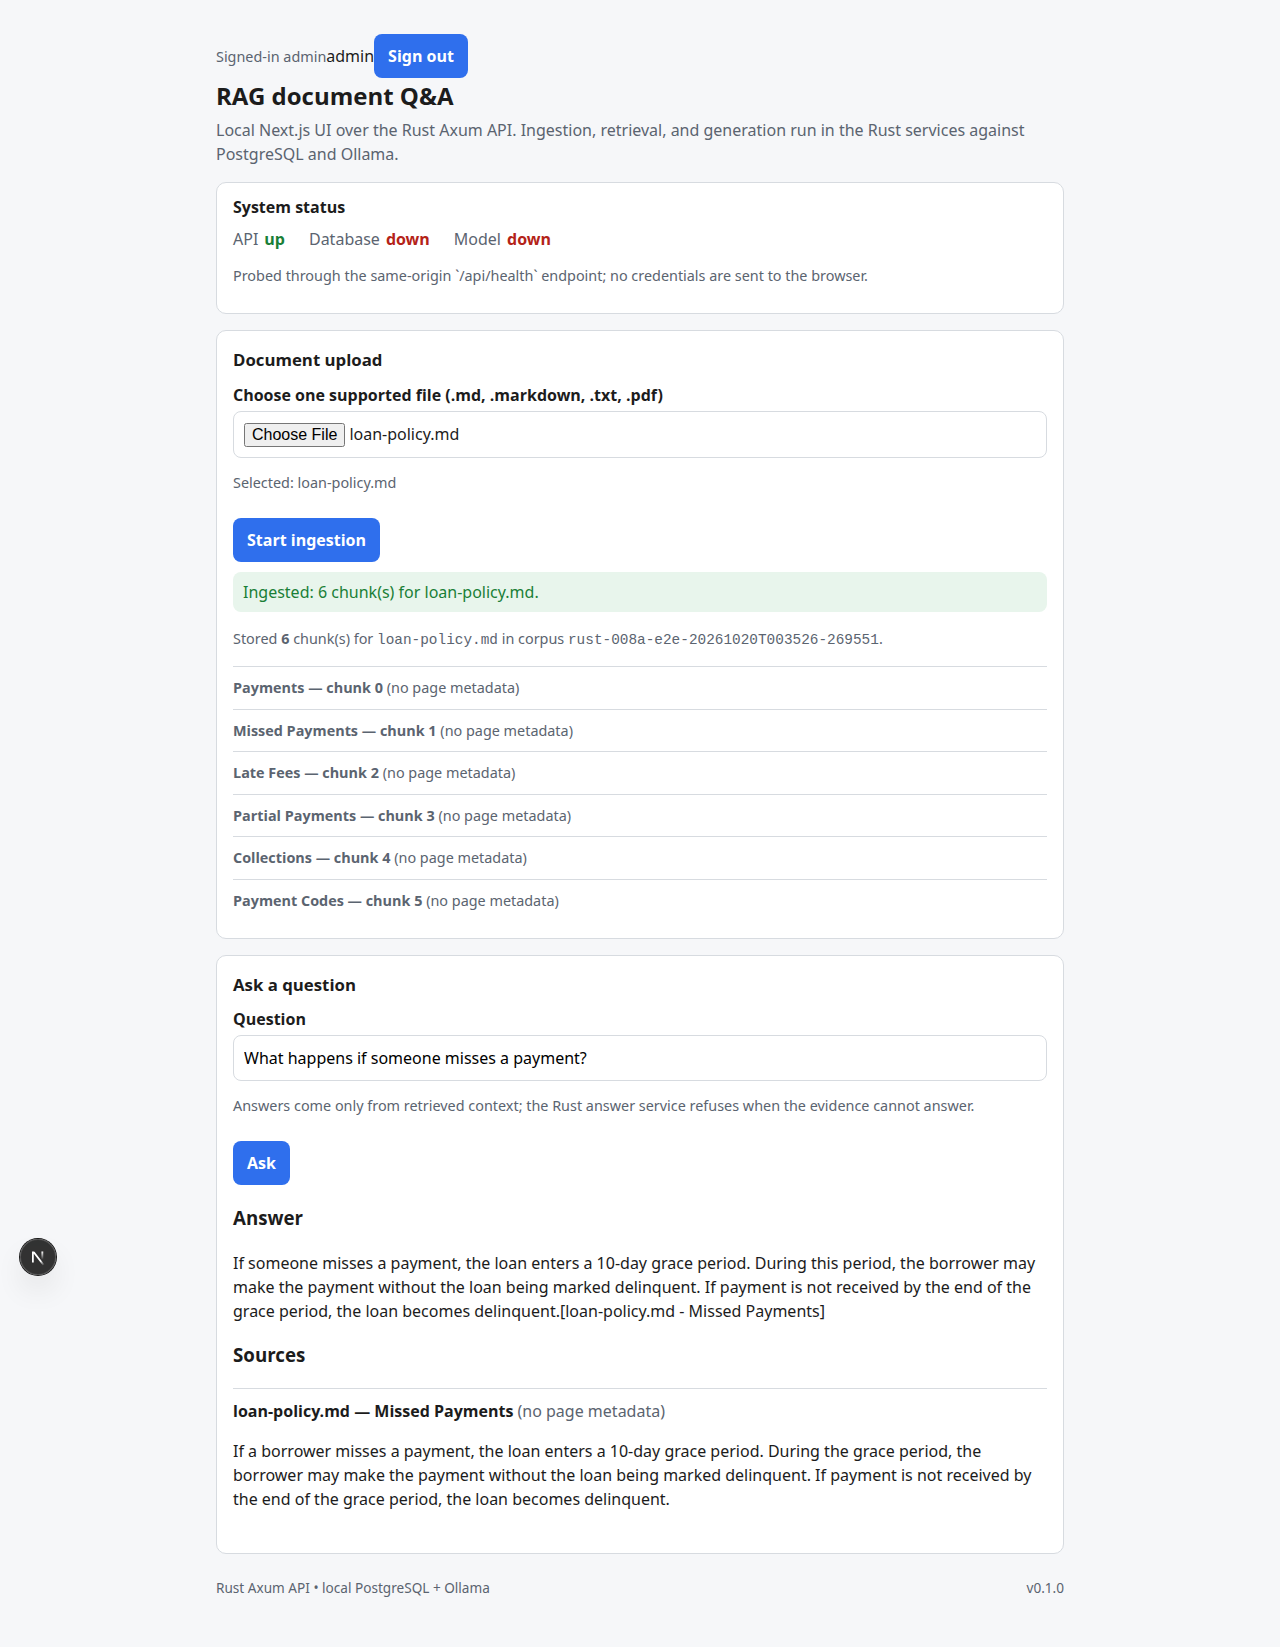
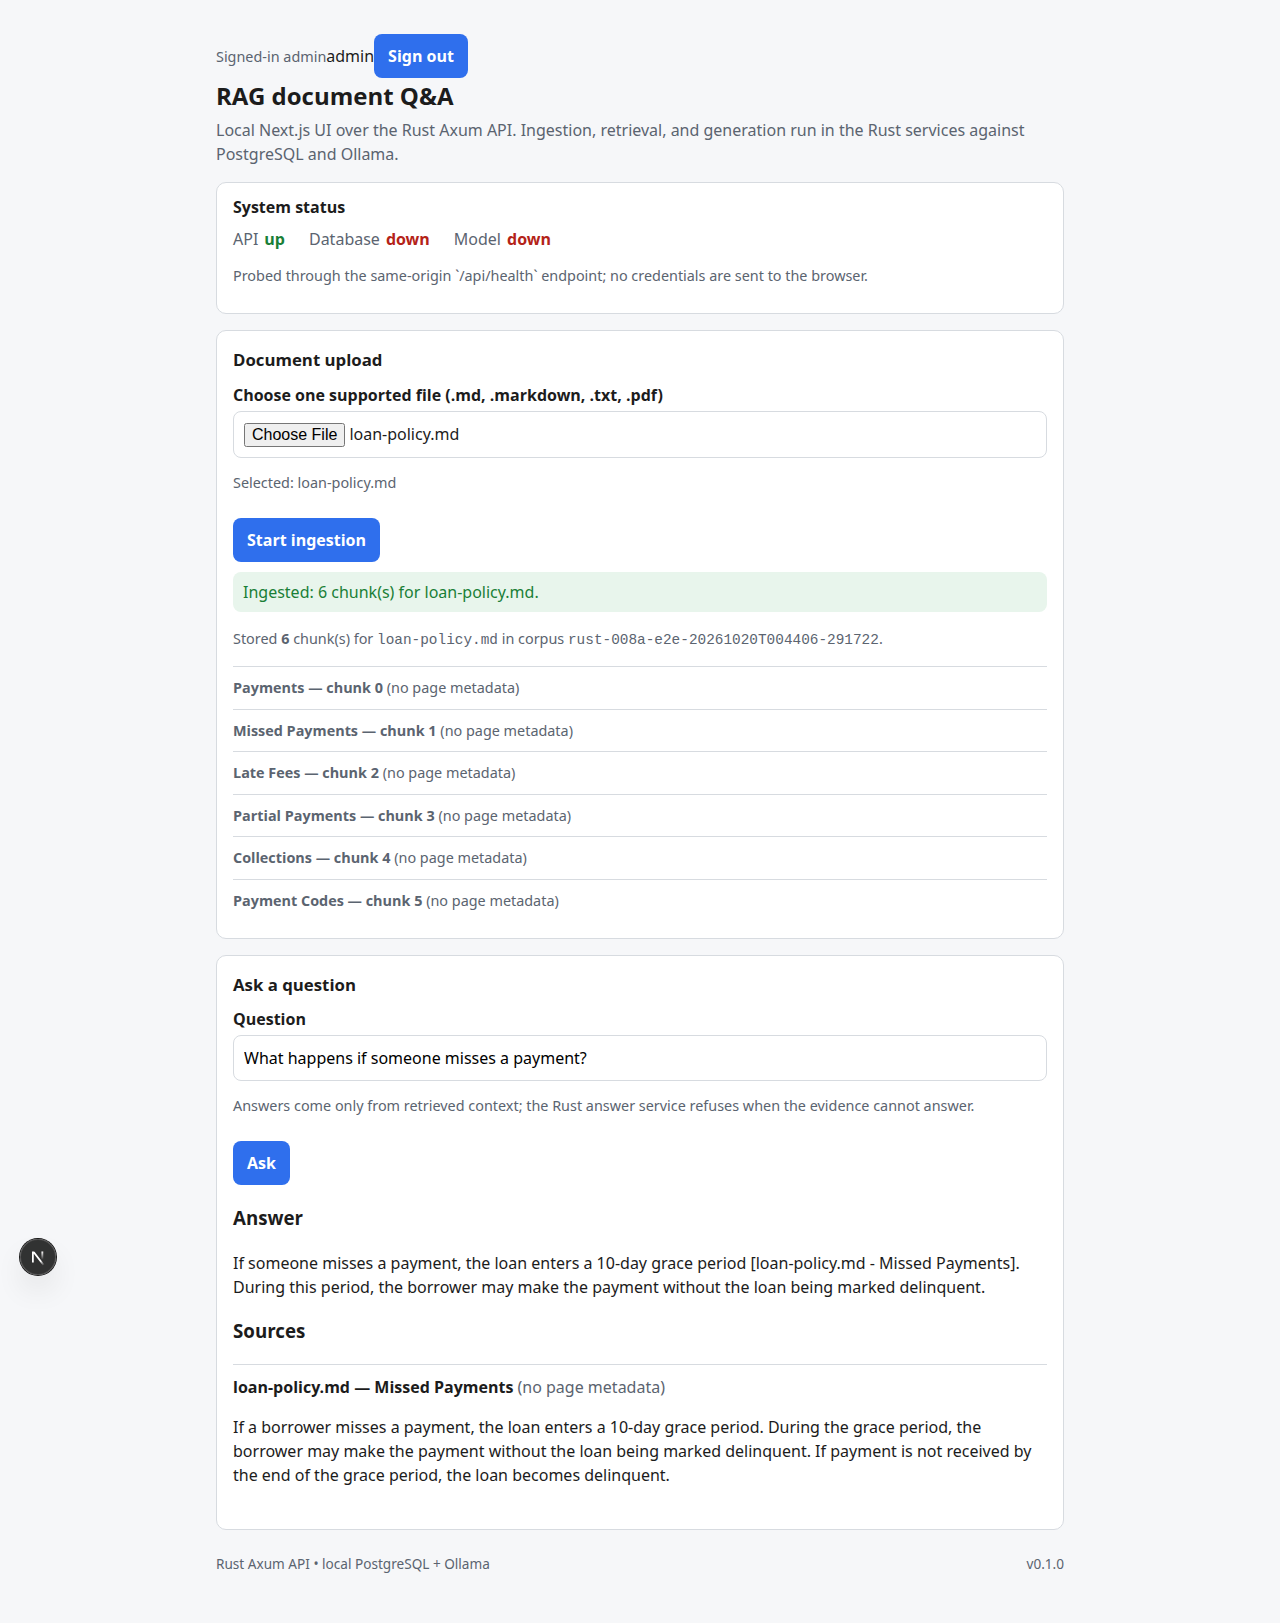
docs(rbac): record identity operations, migration safety, and Head of Family rules
Add the operator documentation required by Phase 5: identity setup, role
matrix, invite and role administration, session/proxy and CSRF behavior,
backup and rollback, recovery, and the Head of Family eligibility evidence and
unresolved succession rule. No real Head of Family appointment is made.

diff --git a/docs/operations/RBAC-OPERATIONS.md b/docs/operations/RBAC-OPERATIONS.md
@@ -1,0 +1,169 @@
+# Identity, RBAC, and Operations
+
+This page describes the application identity model, the role matrix, initial
+setup, account and role administration, session handling, audit rules, backup
+and migration safety, and recovery. It applies to the Rust Axum API and the
+Next.js browser UI.
+
+## Identity model
+
+- A **user** is an authenticated application account.
+- A **person** is a cataloged genealogy subject. A user and a person are not
+  automatically the same entity.
+- Authentication is standards-based OIDC verified by the Rust API. The API
+  verifies the token issuer, audience, signature against a cached JWKS,
+  expiration, and subject. A verification error is a rejection, never anonymous
+  access.
+- Accounts bind to an immutable provider subject, never to an email address.
+- There is no authentication-bypass switch. The CLI remains a local operator
+  interface and is not protected by browser RBAC.
+
+Required API environment:
+
+| Variable | Purpose |
+| --- | --- |
+| `AUTH_ISSUER` | Expected OIDC issuer. |
+| `AUTH_AUDIENCE` | Expected token audience. |
+| `JWKS_URL` | JWKS endpoint used for signature verification. |
+| `AUTH_CLOCK_SKEW_SECS` | Optional clock-skew allowance. |
+| `JWKS_CACHE_TTL_SECS` | Optional JWKS cache lifetime. |
+| `AUTH_RATE_LIMIT` | Sensitive-operation rate limit. |
+| `DATABASE_URL` | PostgreSQL/pgvector connection string. |
+
+The browser never receives a token, subject, email, issuer, JWKS value, corpus
+grant list, or database URL. The HttpOnly `rag_session` cookie carries the
+credential server-to-server; `rag_csrf` supports the double-submit check.
+
+## Role matrix
+
+| Capability | Viewer | Editor | Admin |
+| --- | --- | --- | --- |
+| Read permitted documents, search, and Q&A | Yes | Yes | Yes |
+| Read approved family tree and Head of Family | Yes | Yes | Yes |
+| Upload/replace source documents | No | Yes | Yes |
+| Edit catalog entries and propose corrections | No | Yes | Yes |
+| Propose Head of Family with citations | No | Yes | Yes |
+| Approve, assign, revoke, or replace Head of Family | No | No | Yes |
+| Invite/deactivate users or assign roles | No | No | Yes |
+| Read audit events | No | No | Yes |
+
+All permission checks happen in the Rust permission policy. UI visibility is a
+convenience, never an authorization decision. Missing identity or permission
+fails closed with `401` or `403` before document staging, database access,
+embeddings, or model calls.
+
+## Initial setup
+
+1. Apply every migration in `migrations/` to the target database.
+2. Configure the API environment above and start the API on loopback.
+3. Create the first administrator with the explicit bootstrap command. This is
+   the only path to the first admin and it refuses once an admin exists:
+
+   ```bash
+   DATABASE_URL=... cargo run --locked --bin admin -- \
+     bootstrap --subject <provider-subject> --issuer <issuer> --corpus <private-corpus>
+   ```
+
+4. Start the Next.js UI with `API_URL` pointing at the loopback API.
+5. Do not expose the API publicly until a real OIDC provider, TLS, secure
+   session configuration, and the bootstrap procedure are in place.
+
+## Invite and role administration
+
+The admin CLI is the supported operator interface for account and grant
+changes. Every write is transactional and records an `audit_events` row.
+
+```bash
+# Grant or revoke an application role
+cargo run --locked --bin admin -- grant  --subject <sub> --role viewer
+cargo run --locked --bin admin -- revoke --subject <sub> --role editor
+
+# Grant or revoke a corpus grant
+cargo run --locked --bin admin -- grant-corpus  --subject <sub> --corpus <corpus>
+cargo run --locked --bin admin -- revoke-corpus --subject <sub> --corpus <corpus>
+```
+
+Admin HTTP operations are available for role and Head of Family workflows and
+are protected by the same policy. A role change is rejected if it would leave
+no active admin or if the target account does not exist; nothing is written on
+failure.
+
+Audit rules:
+
+- Actor, action, target, and timestamp are recorded for each role, corpus, and
+  Head of Family change.
+- Tokens, passwords, secrets, database URLs, and retrieved document content are
+  never written to audit events.
+- Audit access itself requires the admin role.
+
+## Sessions, proxy, and CSRF
+
+- `/api/*` is served by the Next.js server-side proxy, not an unrestricted
+  rewrite.
+- The proxy forwards only the verified bearer credential, strips client-supplied
+  identity headers (`X-User`, `X-Role`, `X-Subject`, and similar), and performs
+  no authorization decision of its own.
+- State-changing proxy requests without a credential are rejected with `401`
+  before reaching the API.
+- State-changing requests with a session require a CSRF header that matches the
+  `rag_csrf` cookie.
+- Session and CSRF cookies are `Secure`, `HttpOnly` where applicable, and
+  `SameSite=Strict`.
+
+## Backup, migrations, and rollback
+
+Before applying migrations to existing data:
+
+1. Take a PostgreSQL backup, for example:
+
+   ```bash
+   pg_dump "$DATABASE_URL" --format=custom --file tran-before-rbac.dump
+   ```
+
+2. Apply migrations idempotently in filename order:
+
+   ```bash
+   for f in migrations/*.sql; do
+     psql "$DATABASE_URL" -v ON_ERROR_STOP=1 -f "$f" || exit 1
+   done
+   ```
+
+3. Verify the expected tables and indexes exist (`users`, `role_assignments`,
+   `corpus_grants`, `audit_events`, and the genealogy/appointment tables).
+
+Rollback:
+
+- Restore the backup into a fresh database and point `DATABASE_URL` at it:
+
+  ```bash
+  createdb tran_rbac_rollback
+  pg_restore --dbname tran_rbac_rollback --clean --if-exists tran-before-rbac.dump
+  ```
+
+- Do not run destructive down-migrations against the live database. If a
+  forward migration must be reverted, restore the backup and reapply only the
+  migrations that are known-good.
+
+Migration safety rules:
+
+- Migrations are additive and idempotent where practical.
+- Existing indexed family documents are preserved.
+- Rows are replaced and read by `(corpus, source)`, never by filename alone, so
+  identical filenames in distinct corpora stay isolated.
+- Legacy `NULL`-corpus rows are not exposed automatically.
+
+## Recovery
+
+- A task stopped for missing identity configuration is an operator/configuration
+  blocker, not a human approval. Configure OIDC/JWKS and re-run.
+- A token verification failure or identity-provider outage is an error. It never
+  becomes anonymous access.
+- If a role change fails, inspect the audit table and the account state; no
+  partial assignment is written.
+- If the web session is lost, sign in again. An expired session shows an explicit
+  sign-in state rather than cached records.
+- If the proxy is unreachable, the UI reports the failure and does not render
+  stale protected data.
+- The supported recovery for a blocked SOP task is `sop retry <task-id>` after
+  the concrete blocker is resolved, followed by
+  `sop run docs/plans/PLAN-TRAN-RBAC.md`.

diff --git a/docs/operations/HEAD-OF-FAMILY.md b/docs/operations/HEAD-OF-FAMILY.md
@@ -1,0 +1,78 @@
+# Head of Family
+
+The Head of Family is a **genealogy designation**, not an application
+administrator role. It grants no permission to manage users, documents, roles,
+or security settings by itself. A user may be an administrator without being the
+Head of Family, and the Head of Family may hold no application role beyond what
+the RBAC matrix grants separately.
+
+## Eligibility rule
+
+Only a person who satisfies **all** of the following may hold an active Head of
+Family designation:
+
+1. The cataloged person belongs to the **third family branch** by a verified
+   branch identifier. Branch 3 is not the same as generation 3.
+2. The family record classifies the person as male. This is never inferred from
+   a name.
+3. The person is documented as the **first-born male** of the applicable
+   third-branch lineage. Parentage, birth order, and conflicting accounts must be
+   resolved from cited sources.
+4. The person has a **verified living status** backed by recent, attributed
+   attestation or authoritative evidence. `unknown`, `unverified`, `deceased`,
+   and disputed status are not eligible.
+5. The branch mapping and evidence have been reviewed. Uncertain translations or
+   model-generated answers are not authoritative facts.
+
+At most one active approved Head of Family exists for branch 3. The database
+enforces one current appointment per branch.
+
+## Evidence requirements
+
+Every conclusion and appointment links to cited evidence by identifier. Each
+evidence record carries:
+
+- original source identity;
+- page or section;
+- translated passage when available;
+- assertion type;
+- provenance;
+- reviewer and review timestamp.
+
+Evidence status is `verified`, `unverified`, or `needs_review`. The browser shows
+`Unverified` for missing evidence and `Needs review` for conflicting evidence. It
+never invents a family head from a model answer.
+
+## Approval workflow
+
+- Editors may draft a proposal with citations.
+- Only an active administrator may approve, create, revoke, or replace a
+  designation.
+- The approval API re-evaluates eligibility inside the same transaction that
+  assigns the designation; a role or request field cannot override a failed
+  check.
+- Concurrent branch-3 approvals are serialized or rejected so two active
+  appointments cannot be created.
+- The browser requires an explicit confirmation before submitting a nomination,
+  approval, or revocation. Cancelling sends no request.
+
+## Succession rule (unresolved family policy)
+
+The succession rule after the first-born male is **not implemented as a software
+default**. If the first-born male is deceased, disputed, or no longer verifiably
+living:
+
+- do not silently appoint the next male child;
+- suspend or revoke the active designation by a documented policy;
+- require an explicit family-policy decision before any new appointment.
+
+The application records the suspension/revocation and does not infer a successor.
+
+## Current implementation state
+
+The eligibility function, cited-evidence model, appointment table, one-active-
+per-branch constraint, and admin approval workflow are implemented and covered by
+tests. **No real Head of Family has been appointed.** The designation remains
+unset until a verified third-branch candidate with complete evidence is approved
+by an administrator. No public or production deployment occurs without OIDC,
+TLS, secure sessions, and an administrative bootstrap.

diff --git a/docs/README.md b/docs/README.md
@@ -70,6 +70,9 @@ their content here.
 | [operations/prompt-injection.md](operations/prompt-injection.md) | You need the prompt-injection risk model and mitigations. |
 | [operations/defect-recovery.md](operations/defect-recovery.md) | You are recovering from a suspected `agentic-sop` defect during a RAG task. |
 | [operations/platform-support.md](operations/platform-support.md) | You need the supported platforms, prerequisites, and known gaps. |
+| [operations/RBAC-OPERATIONS.md](operations/RBAC-OPERATIONS.md) | You are setting up identity, roles, migrations, backup, or recovery. |
+| [operations/HEAD-OF-FAMILY.md](operations/HEAD-OF-FAMILY.md) | You need the Head of Family eligibility evidence and succession rule. |
+| [cli-trust-boundary.md](cli-trust-boundary.md) | You need the local CLI trust boundary. |
 | [plans/PLAN.md](plans/PLAN.md) | You want the engineering and learning plan. |
 | [plans/PLAN-RAG-Gap-Closure.md](plans/PLAN-RAG-Gap-Closure.md) | You want the gap-closure governance and audit record. |
 | [plans/PLAN-RAG-Phase-23b.md](plans/PLAN-RAG-Phase-23b.md) | You want the phase-23b execution plan. |
